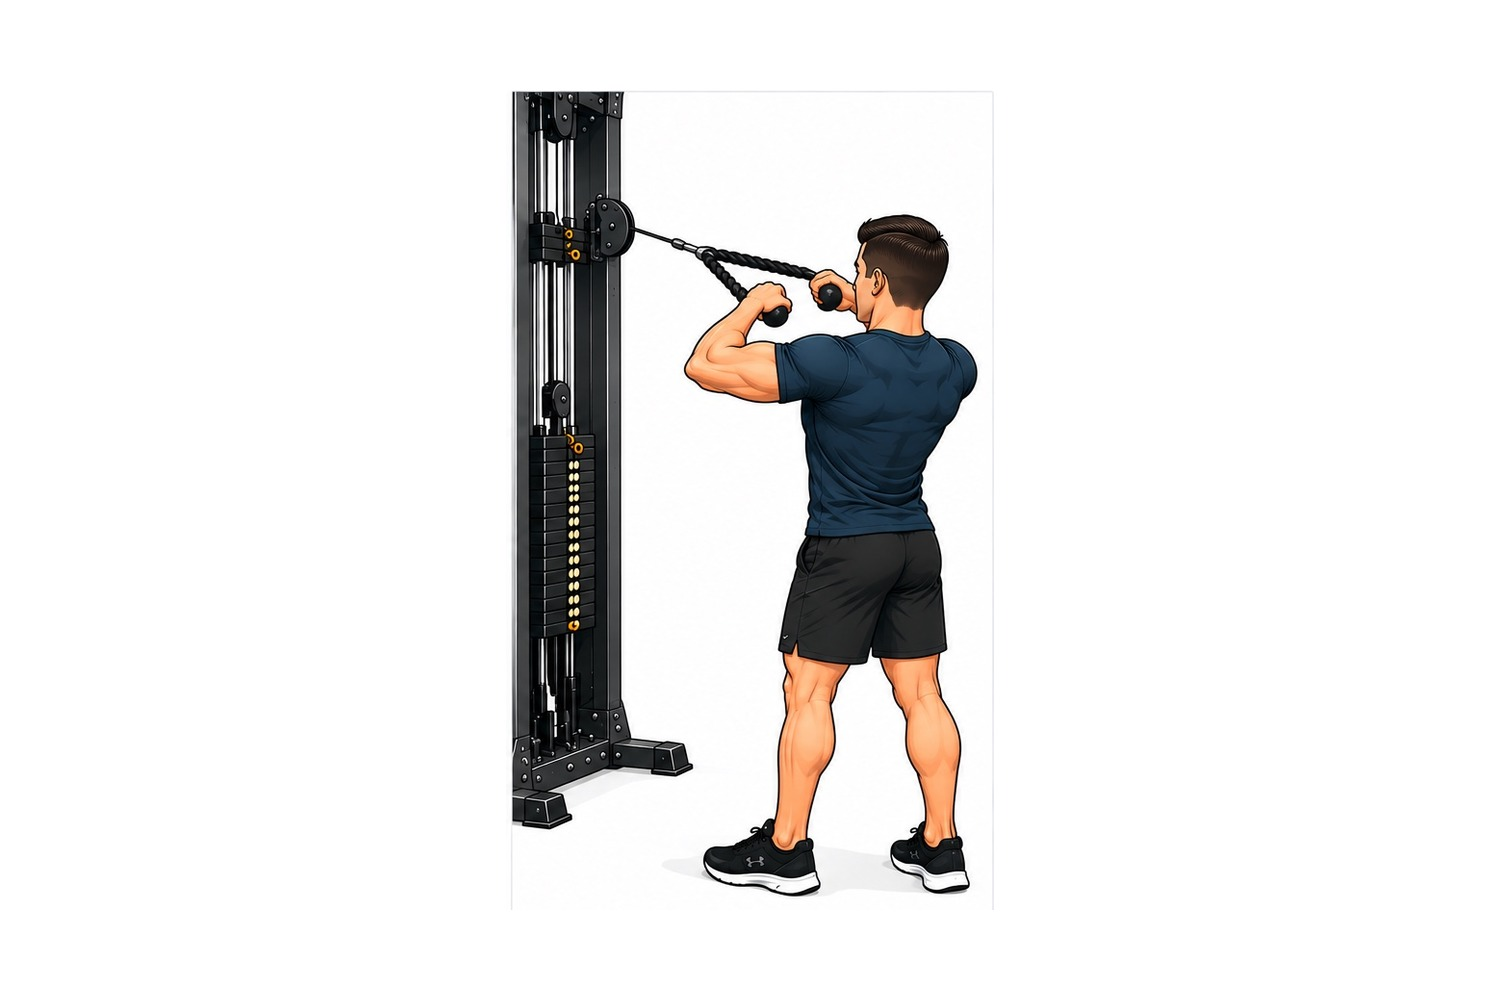
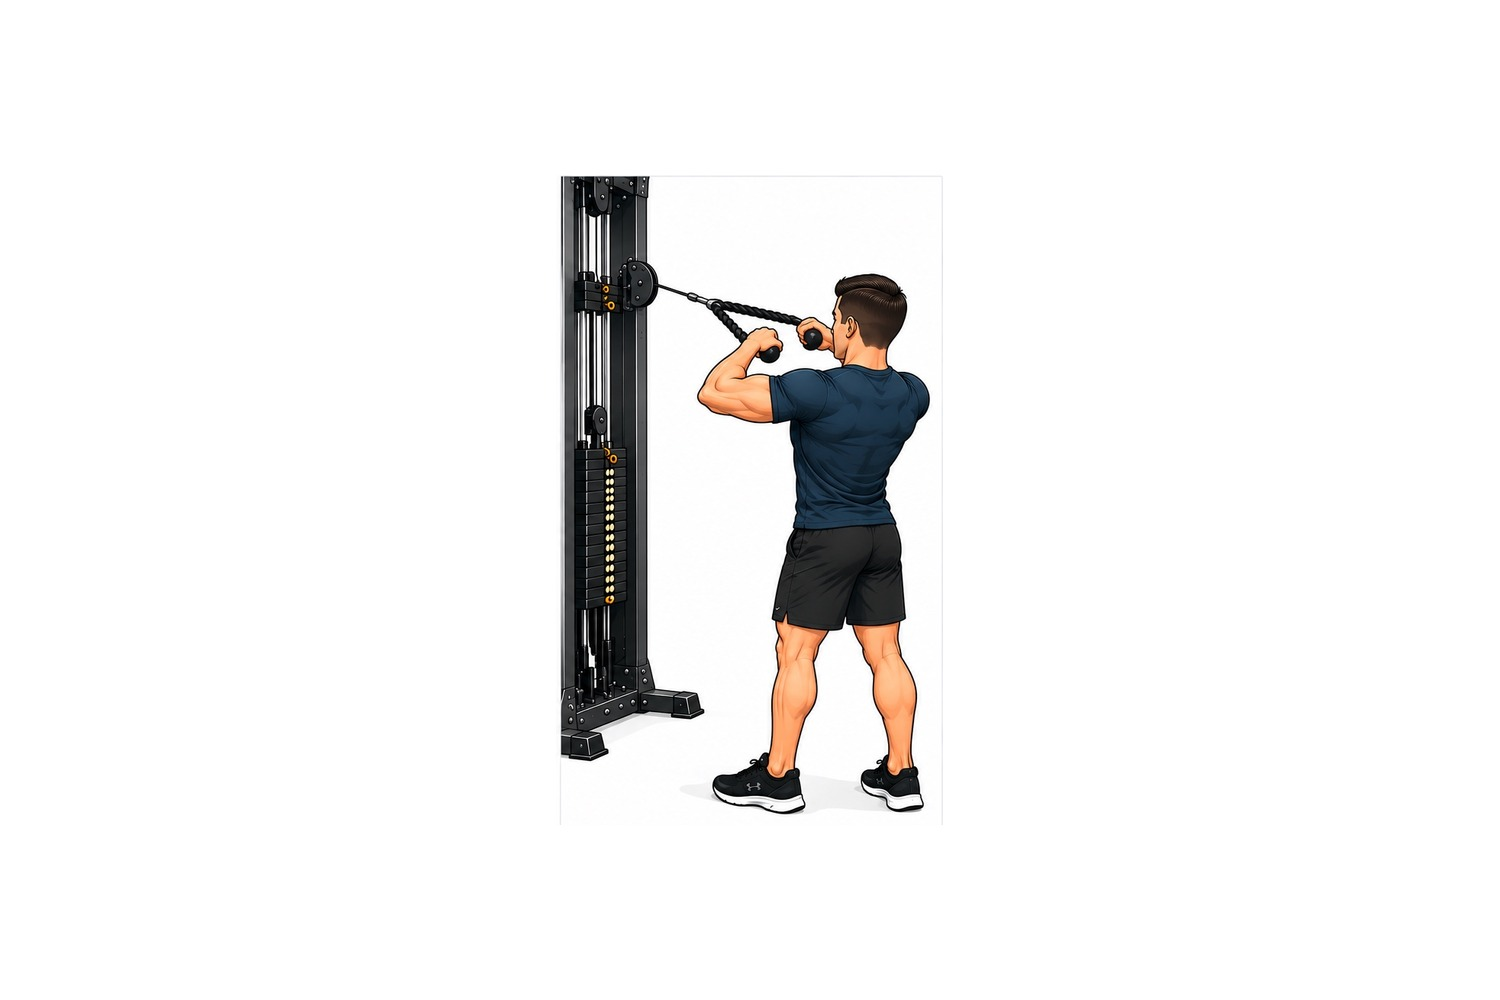
Reduce refreshed artwork scale

Changed region(s): [[0.3373, 0.093, 0.6747, 0.899]]

diff --git a/service-worker.js b/service-worker.js
@@ -1,4 +1,4 @@
-const CACHE='gym-tracker-v6-9-artwork-test-2';
+const CACHE='gym-tracker-v6-9-artwork-test-3';
 const STATIC=["./manifest.webmanifest", "./icons/icon-192.png", "./icons/icon-512.png", "./assets/bike.jpg", "./assets/chest.jpg", "./assets/cross.jpg", "./assets/dbrow.jpg", "./assets/facepull.jpg", "./assets/foam.jpg", "./assets/glutebridge.jpg", "./assets/hinge.jpg", "./assets/hipabd.jpg", "./assets/hipext.jpg", "./assets/kneeext.jpg", "./assets/lat.jpg", "./assets/legcurl.jpg", "./assets/legpress.jpg", "./assets/pallof.jpg", "./assets/seatedrow.jpg", "./assets/shrug.jpg", "./assets/backextension45.jpg", "./assets/machine-hip-thrust-lower-back.jpg", "./assets/treadmill.jpg", "./assets/rower.jpg", "./assets/legpress-new.jpg", "./assets/facepull-new.jpg", "./assets/dbrow-new.jpg"];
 
 self.addEventListener('install', event => {
